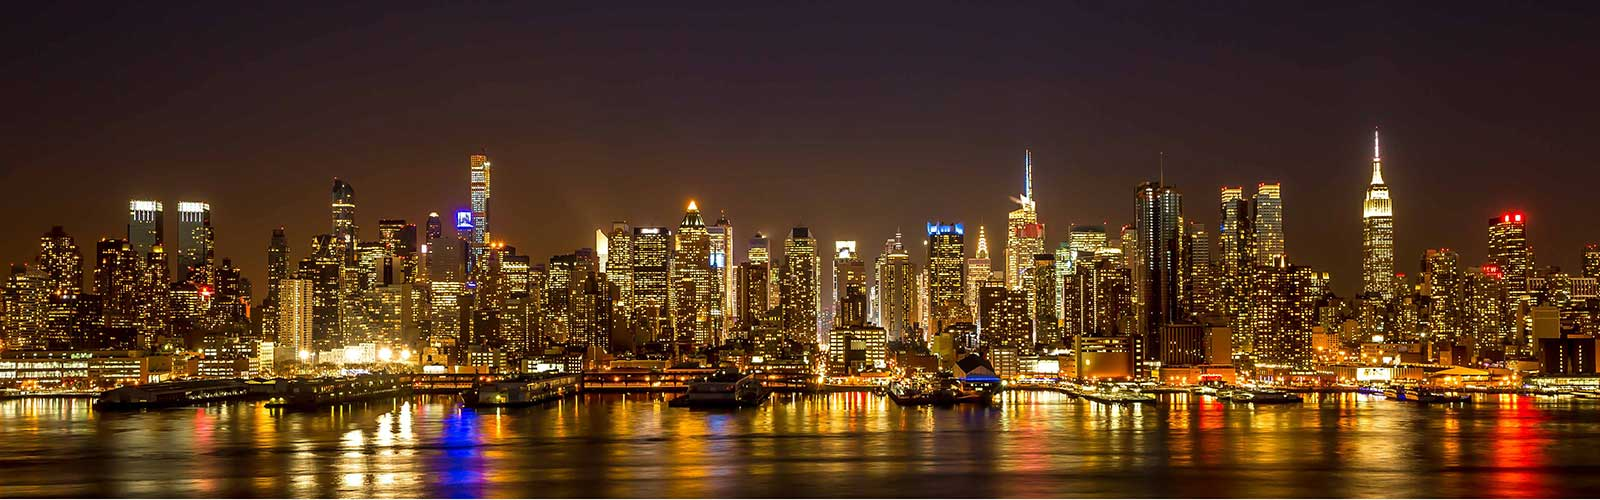
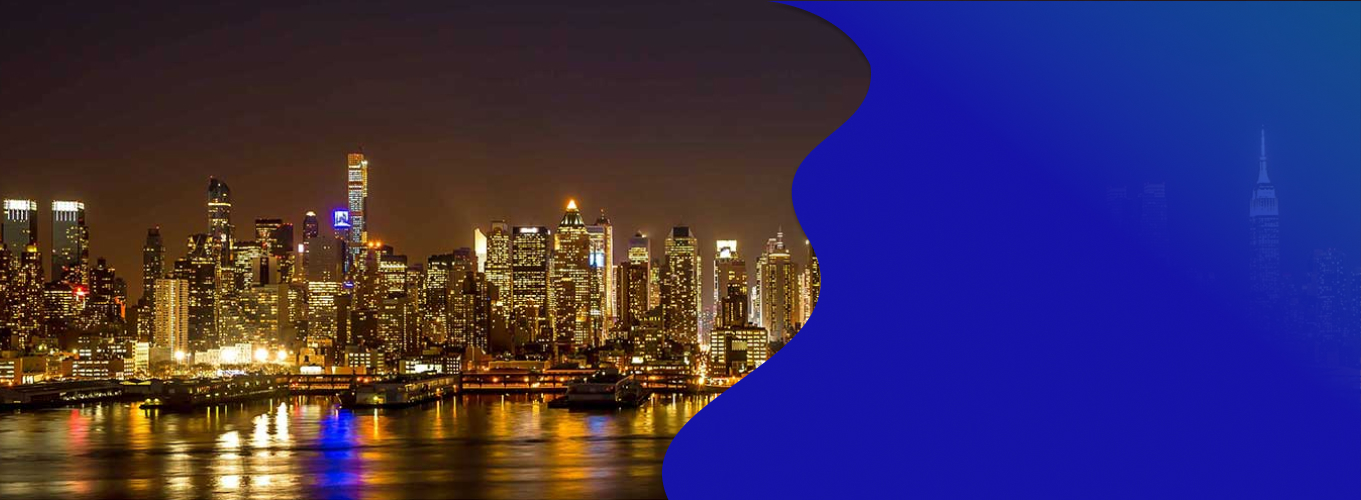
correcciones segun cliente

diff --git a/src/app/feature/home/home.component.ts b/src/app/feature/home/home.component.ts
@@ -54,7 +54,7 @@ export class HomeComponent implements OnInit {
       title: 'Imperial Service Tours',
       description:
         'N1 en venta de pasajes aéreos ofreciendote, seguridad, rapidez y garantía.',
-      img: '../../../assets/images/tours.jpeg',
+      img: '../../../assets/images/logo-tour.png',
       detailImg: [
         'https://img.freepik.com/foto-gratis/toma-aerea-hermosa-aldea-montana-capturada-machu-picchu-peru_181624-14674.jpg',
         'https://img.freepik.com/foto-gratis/ya-esta-todo-listo-sus-vacaciones-representante-ventas-entregando-pasaportes-boletos-avion-mujer-hombre-jovenes-su-viaje-vacaciones-agencia-viajes_662251-2215.jpg',
@@ -65,7 +65,7 @@ export class HomeComponent implements OnInit {
       title: 'Imperial Service Cargo',
       description:
         'Encargados de paquetería service a todo el peru, nuestro servicio de puerta a puerta y retiros en todo Italia',
-      img: '../../../assets/images/cargo.jpeg',
+      img: '../../../assets/images/cargo-logo.jpeg',
       detailImg: [
         '../../../assets/images/cargo-01.jpeg',
         '../../../assets/images/cargo-02.jpeg',
@@ -78,7 +78,7 @@ export class HomeComponent implements OnInit {
       title: 'Imperial Service Money',
       description:
         'Envios en dólares, euros y soles, ofreciendote una variedad de opciones de acuerdo a lo que solicites',
-      img: '../../../assets/images/money.jpeg',
+      img: '../../../assets/images/logo-money.png',
       detailImg: [
         'https://img.freepik.com/foto-gratis/dinero-rico-efectivo-antiguo-anonimo_1150-1656.jpg?t=st=1708739293~exp=1708742893~hmac=352c0e0f8dccec45d7afcbed2f15190618483cfbff59b36f37b185f81f325552&w=2000',
         'https://img.freepik.com/foto-gratis/manos-abriendo-sobre-lleno-billetes_176474-7125.jpg?t=st=1708739402~exp=1708743002~hmac=f7db2cd6571e331331df8970831a7bc9004280476912ab6b8f508977feebd58e&w=2000',

diff --git a/src/app/feature/home/home.component.html b/src/app/feature/home/home.component.html
@@ -58,7 +58,7 @@
     <div class="container-service row">
       <div class="col-md-4 col-sm-12 container-service-list" *ngFor="let value of services">
         <mat-card class="example-card mat-card">
-            <img alt="Photo of a Shiba Inu" mat-card-image src="{{value.img}}">
+            <img alt="serives" class="p-3" mat-card-image src="{{value.img}}">
             <mat-card-content class="mat-card-content">
                 <div class="card-body">
                     <h3 class="card-title">{{value.title}}</h3>

diff --git a/src/app/feature/home/home.component.scss b/src/app/feature/home/home.component.scss
@@ -23,10 +23,8 @@
   width: 100%;
   height: 100%;
   background: linear-gradient(to left, #000000, #1513a7); // 1513a7
-  border-radius: 60% 0;
-
   z-index: 1; /* Asegurarse de que el degradado esté detrás del contenido */
-  opacity: 0.7; /* Opacidad del degradado */
+  opacity: 0.6; /* Opacidad del degradado */
   pointer-events: none; /* Evitar que el pseudo-elemento interfiera con los eventos de ratón */
 }
 .container-text {
